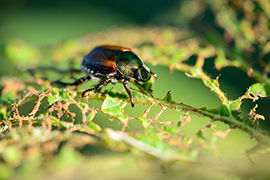
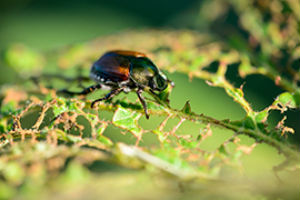
Styled research landing page

diff --git a/research.html b/research.html
@@ -33,23 +33,21 @@
 
 	<h2>Research</h2>
 
-	<p>
-		<img class="topicimages" src="images/cereal.jpg" alt="wheat" >
-	</p>
+	<div class="grid">
+	<ul class="cards">
+					<li class="card19">
+						<a href=""><h4> Bagging the bug: New netting system could help eliminate Japanese beetles </h4></a>
+						<h6> Anna S. Peterson </h6>
+							<h5> The winter may seem quiet, but 12 inches below the ground, Japanese beetles are already dining. </h5>
+							<h5> The grubs are chewing on grass, killing lawns while they protect themselves. </h5>
+							</li>
 
+							<li class="card20">
+								<img src="images/beetlethumb.jpg" />
+							</li>
 
-
-
-
-
-<h2>Related coverage</h2>
-
-	<p>
-		<img class="topicimages" src="images/tractor.jpg" alt="tractor photo" >
-	</p>
-
-	<h3>Agriculture feels economic crunch</h3>
-
+			</ul>
+		</div>
 
 	<p>
 		<img src="Logo.png" alt="logo" width="200px">

diff --git a/style.css b/style.css
@@ -629,3 +629,15 @@ p {
 	grid-row: 2;
 	justify-self:center;
 }
+
+.card19 {
+	align-self: flex-end;
+  grid-column: 2/4;
+  grid-row: 1;
+}
+
+.card20 {
+	grid-column:1;
+	grid-row: 1;
+	justify-self:center;
+}
